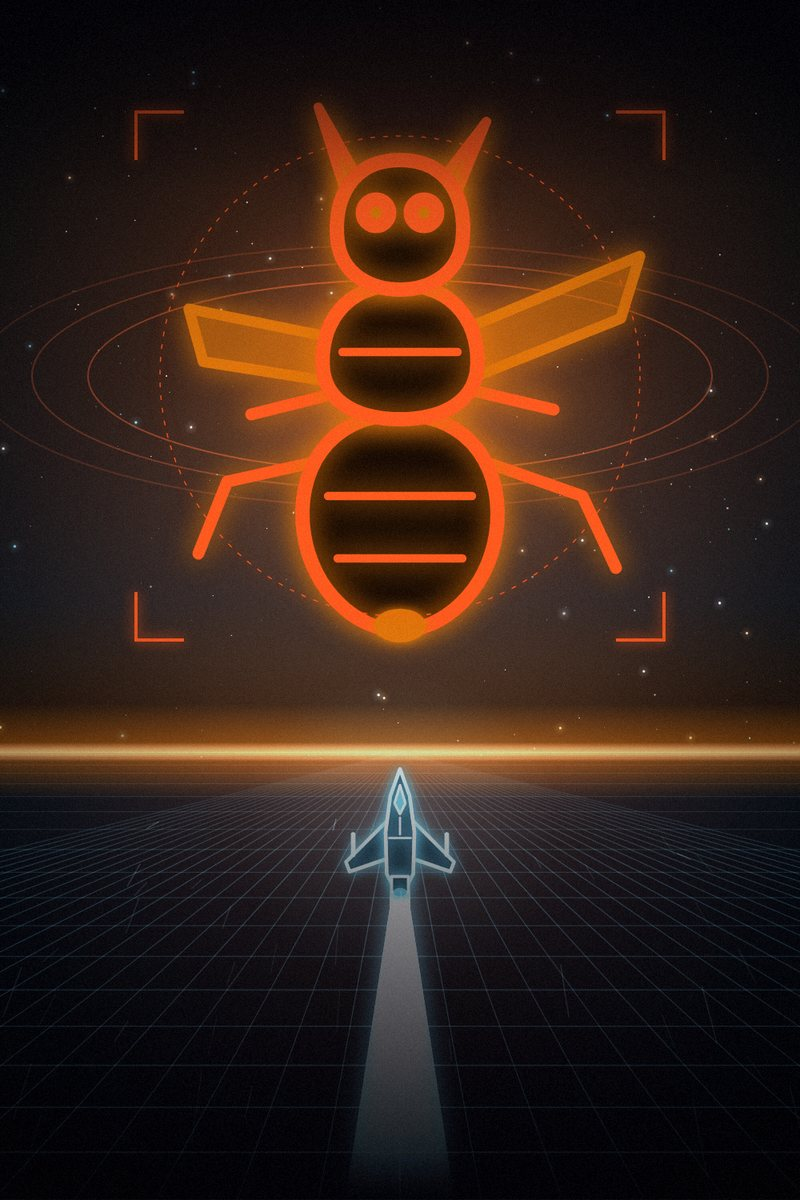
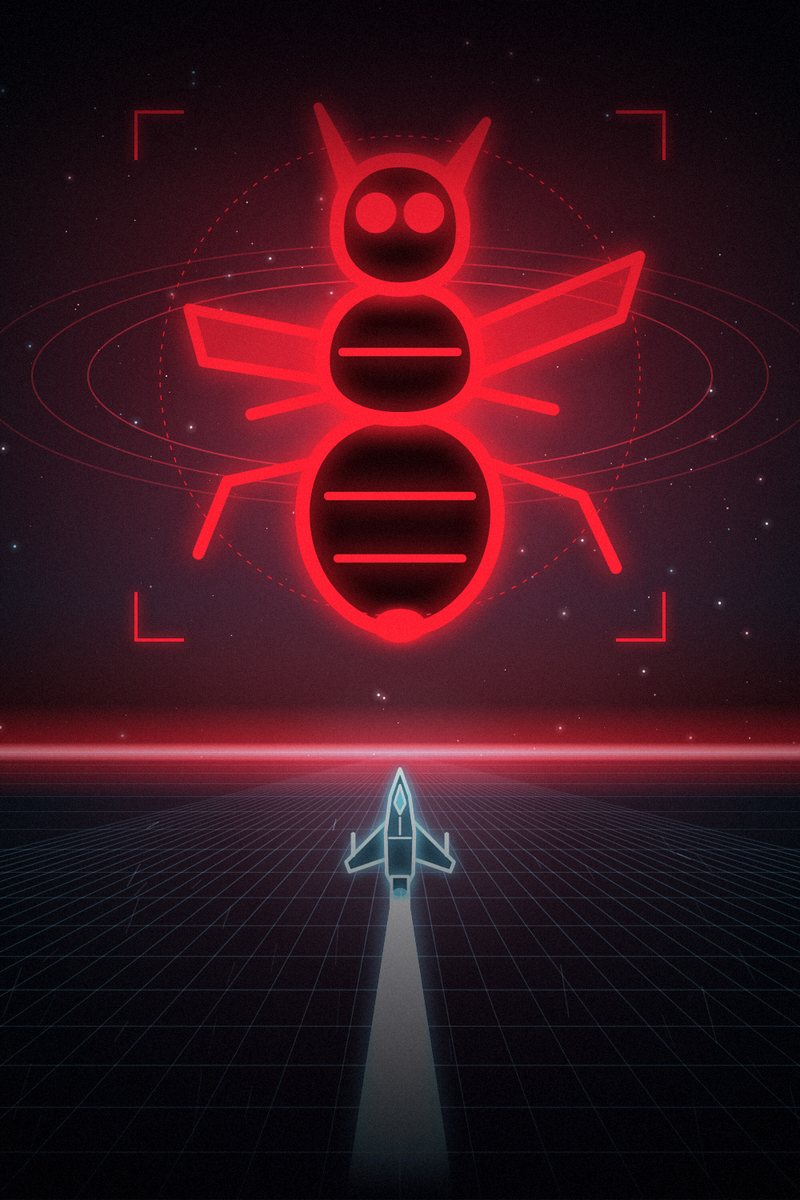
Red Alert poster: re-grade the enemy and danger glow from orange to alarm red
Cruiser, targeting brackets, glow, horizon haze and floor reflection are now
#FF2033 with deep #2a0608 sky tones; the player's ship, trail, grid and speed
lines stay cyan. Release line on the tile follows the red.

Claude-Session: https://claude.ai/code/session_014bduxS6iZXM2bQADToQ5gz

diff --git a/website/index.html b/website/index.html
@@ -141,7 +141,7 @@ h2 { margin: 0 0 1.25rem; font: 400 var(--step-2)/1.3 var(--font-display); lette
 .poster__tagline { margin: 0; max-width: 28ch; font-size: 0.92rem; line-height: 1.45; color: rgba(237, 233, 245, 0.88); text-wrap: balance; text-shadow: 0 1px 10px rgba(0, 0, 0, 0.9); }
 .poster__release { margin: 0.35rem 0 0; padding-top: 0.7rem; width: min(100%, 13rem); border-top: 1px solid color-mix(in srgb, var(--pill) 50%, transparent); font: 600 0.62rem/1 var(--font-mono); letter-spacing: 0.3em; text-transform: uppercase; color: var(--pill); }
 .game--celestial { --tint: #C9A6FF; --glow: rgba(123, 47, 247, 0.75); }
-.game--redalert { --tint: #6FC3DF; --pill: #FF7A33; --glow: rgba(255, 90, 31, 0.6); }
+.game--redalert { --tint: #6FC3DF; --pill: #FF3B4F; --glow: rgba(255, 32, 51, 0.6); }
 .game--poseidon { --tint: #4FFF7B; --glow: rgba(79, 255, 123, 0.5); }
 @media (max-width: 900px) { .games { grid-template-columns: minmax(0, 1fr); max-width: 26rem; margin-inline: auto; } }
 @media (prefers-reduced-motion: reduce) { .game img { transition: none; } .game:hover img { transform: none; } }

diff --git a/website/src/page.html b/website/src/page.html
@@ -136,7 +136,7 @@ h2 { margin: 0 0 1.25rem; font: 400 var(--step-2)/1.3 var(--font-display); lette
 .poster__tagline { margin: 0; max-width: 28ch; font-size: 0.92rem; line-height: 1.45; color: rgba(237, 233, 245, 0.88); text-wrap: balance; text-shadow: 0 1px 10px rgba(0, 0, 0, 0.9); }
 .poster__release { margin: 0.35rem 0 0; padding-top: 0.7rem; width: min(100%, 13rem); border-top: 1px solid color-mix(in srgb, var(--pill) 50%, transparent); font: 600 0.62rem/1 var(--font-mono); letter-spacing: 0.3em; text-transform: uppercase; color: var(--pill); }
 .game--celestial { --tint: #C9A6FF; --glow: rgba(123, 47, 247, 0.75); }
-.game--redalert { --tint: #6FC3DF; --pill: #FF7A33; --glow: rgba(255, 90, 31, 0.6); }
+.game--redalert { --tint: #6FC3DF; --pill: #FF3B4F; --glow: rgba(255, 32, 51, 0.6); }
 .game--poseidon { --tint: #4FFF7B; --glow: rgba(79, 255, 123, 0.5); }
 @media (max-width: 900px) { .games { grid-template-columns: minmax(0, 1fr); max-width: 26rem; margin-inline: auto; } }
 @media (prefers-reduced-motion: reduce) { .game img { transition: none; } .game:hover img { transform: none; } }
